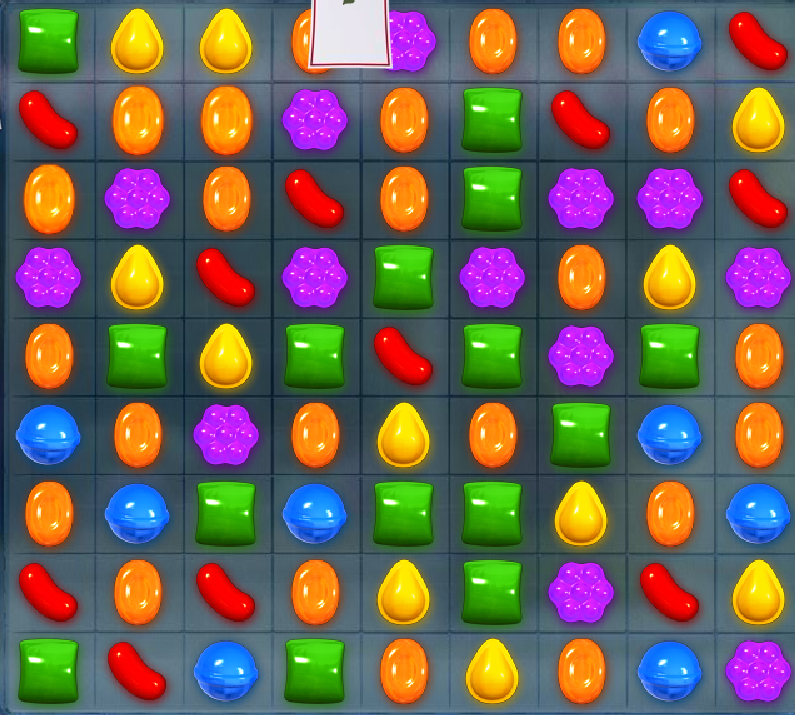
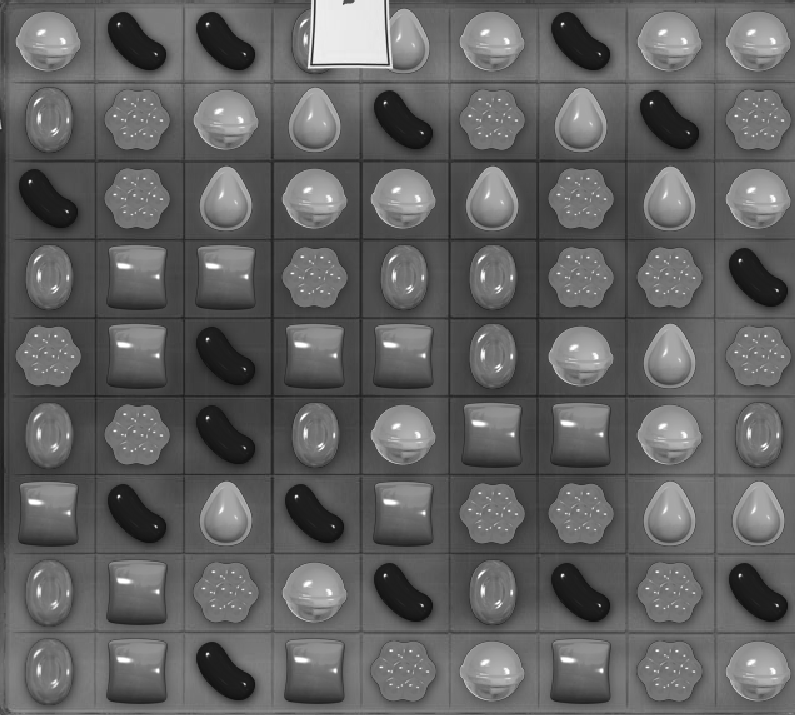
intento de arreglar sensores

diff --git a/Sensores.py b/Sensores.py
@@ -4,7 +4,6 @@ import numpy as np
 import time
 from PIL import Image
 
-
 # Función para capturar una imagen del juego
 def capture_screenshot():
     screenshot = ImageGrab.grab()  # Captura una imagen de toda la pantalla
@@ -19,77 +18,53 @@ def process_screenshot(screenshot):
     # Esta parte dependerá de la estructura del juego y lo que deseas analizar.
 
     # Ejemplo: Recortar la imagen para obtener solo una región específica
-    game_region = screenshot[75:790, 125:920]  # Ajusta las coordenadas según tu juego verticaul-horizontal
+    game_region = screenshot[75:790, 125:920]  # Ajusta las coordenadas según tu juego vertical-horizontal
 
-    # Ejemplo: Aplicar un filtro de suavizado
-    #game_region = cv2.GaussianBlur(game_region, (15, 15), 0)
-
+    # Convierte la región del juego a escala de grises
+    game_region = cv2.cvtColor(game_region, cv2.COLOR_BGR2GRAY)
 
     return game_region
 
-def calculate_dominant_color(segment):
+# Función para identificar el tipo de dulce en un segmento
+def identify_candy(segment, reference_images):
+    best_match = None
+    best_match_score = float('-inf')
 
-    color_to_candy = {
-        (52, 177, 1): 'Verde',
-        (255, 1, 0): 'Rojo',
-        (252, 220, 3): 'Amarillo',
-        (18, 138, 255): 'Azul',
-        (255, 138, 13): 'Naranja',
-        (187, 37, 255): 'Morado',
-    }
-    
-    candy_type = 'Desconocido'
+    for candy, reference_image in reference_images.items():
+        # Realizar la coincidencia de plantillas
+        result = cv2.matchTemplate(segment, reference_image, cv2.TM_CCOEFF_NORMED)
 
-    # Convertir el segmento a formato HSV (Hue, Saturation, Value)
-    hsv_segment = cv2.cvtColor(segment, cv2.COLOR_BGR2HSV)
+        # Ajustar el umbral aquí para controlar la coincidencia
+        threshold = 0.03 # Ajusta este valor según tus necesidades
+        loc = np.where(result >= threshold)
 
-    for color, candy in color_to_candy.items():
-        lower_bound = np.array([color[0] - 10, 100, 100])
-        upper_bound = np.array([color[0] + 10, 255, 255])
+        # Procesa todas las coincidencias y encuentra la mejor
+        for pt in zip(*loc[::-1]):
+            if result[pt[1], pt[0]] > best_match_score:
+                best_match_score = result[pt[1], pt[0]]
+                best_match = candy
 
-        # Crear una máscara para el color específico
-        mask = cv2.inRange(hsv_segment, lower_bound, upper_bound)
-
-        # Encuentra los contornos en la máscara
-        contours, _ = cv2.findContours(mask, cv2.RETR_EXTERNAL, cv2.CHAIN_APPROX_SIMPLE)
-
-        # Si se encuentra al menos un contorno, consideramos que el color está presente
-        if len(contours) > 0:
-            candy_type = candy
-            break
+    return best_match
 
 
-    return candy_type
-
-
-def process_game_board(game_board):
-
-    rows, cols, _ = game_board.shape
+# Función para procesar el tablero del juego
+def process_game_board(game_board, reference_images):
+    rows, cols = game_board.shape
     segment_size = (cols // 9, rows // 9)  # Tamaño de cada segmento
-    game_matrix = np.zeros((9, 9), dtype=int)
+    game_matrix = np.empty((9, 9), dtype=str)
 
     for i in range(9):
         for j in range(9):
             # Obtener el segmento actual
-
             segment = game_board[i * segment_size[1]:(i + 1) * segment_size[1], 
                                 j * segment_size[0]:(j + 1) * segment_size[0]]
 
-
-
-            # Calcular el color predominante en el segmento
-            color_mode = calculate_dominant_color(segment)
-
-            print(color_mode)
-            # Asignar un valor único a cada tipo de dulce basado en el color predominante
-            # Esto es un ejemplo; debes ajustarlo según tus colores y tipos de dulces
-            # if color_mode == 0:
-            #     game_matrix[i][j] = 1  # Tipo de dulce 1
-            # elif color_mode == 1:
-            #     game_matrix[i][j] = 2  # Tipo de dulce 2
-            # # Agrega más condiciones para otros colores y tipos de dulces
+            # Identificar el tipo de dulce en el segmento
+            candy_type = identify_candy(segment, reference_images)
+            game_matrix[i][j] = candy_type
 
     print(game_matrix) 
+
 # Función para guardar una imagen en un archivo
 def save_image(image, filename):
     image_pil = Image.fromarray(image)
@@ -98,17 +73,41 @@ def save_image(image, filename):
 # Ejemplo de uso
 if __name__ == "__main__":
     var = True
+    reference_images = {
+        # 'Verde': cv2.imread('D:/Trabajos UN/2023-2/Sistemas inteligentes/Agente-Candy/Images/verde.png', cv2.IMREAD_GRAYSCALE),
+        # 'Rojo': cv2.imread('D:/Trabajos UN/2023-2/Sistemas inteligentes/Agente-Candy/Images/rojo.png', cv2.IMREAD_GRAYSCALE),
+        # 'Naranja': cv2.imread('D:/Trabajos UN/2023-2/Sistemas inteligentes/Agente-Candy/Images/naranja.png', cv2.IMREAD_GRAYSCALE),
+        # 'Amarillo': cv2.imread('D:/Trabajos UN/2023-2/Sistemas inteligentes/Agente-Candy/Images/amarillo.png', cv2.IMREAD_GRAYSCALE),
+        # 'Azul': cv2.imread('D:/Trabajos UN/2023-2/Sistemas inteligentes/Agente-Candy/Images/azul.png', cv2.IMREAD_GRAYSCALE),
+        # 'Morado': cv2.imread('D:/Trabajos UN/2023-2/Sistemas inteligentes/Agente-Candy/Images/morado.png', cv2.IMREAD_GRAYSCALE),
+
+        # 'Verde2': cv2.imread('D:/Trabajos UN/2023-2/Sistemas inteligentes/Agente-Candy/Images/verde3.png', cv2.IMREAD_GRAYSCALE),
+        # 'Rojo2': cv2.imread('D:/Trabajos UN/2023-2/Sistemas inteligentes/Agente-Candy/Images/rojo3.png', cv2.IMREAD_GRAYSCALE),
+        # 'Naranja2': cv2.imread('D:/Trabajos UN/2023-2/Sistemas inteligentes/Agente-Candy/Images/naranja3.png', cv2.IMREAD_GRAYSCALE),
+        # 'Yellow2': cv2.imread('D:/Trabajos UN/2023-2/Sistemas inteligentes/Agente-Candy/Images/amarillo3.png', cv2.IMREAD_GRAYSCALE),
+        # 'Azul2': cv2.imread('D:/Trabajos UN/2023-2/Sistemas inteligentes/Agente-Candy/Images/azul3.png', cv2.IMREAD_GRAYSCALE),
+        # 'Morado2': cv2.imread('D:/Trabajos UN/2023-2/Sistemas inteligentes/Agente-Candy/Images/morado3.png', cv2.IMREAD_GRAYSCALE),
+    
+
+        'Verde': cv2.imread('D:/Trabajos UN/2023-2/Sistemas inteligentes/Agente-Candy/Images/verde2.png', cv2.IMREAD_GRAYSCALE),
+        'Rojo': cv2.imread('D:/Trabajos UN/2023-2/Sistemas inteligentes/Agente-Candy/Images/rojo2.png', cv2.IMREAD_GRAYSCALE),
+        'Naranja': cv2.imread('D:/Trabajos UN/2023-2/Sistemas inteligentes/Agente-Candy/Images/naranja2.png', cv2.IMREAD_GRAYSCALE),
+        'Yellow': cv2.imread('D:/Trabajos UN/2023-2/Sistemas inteligentes/Agente-Candy/Images/amarillo2.png', cv2.IMREAD_GRAYSCALE),
+        'Azul': cv2.imread('D:/Trabajos UN/2023-2/Sistemas inteligentes/Agente-Candy/Images/azul2.png', cv2.IMREAD_GRAYSCALE),
+        'Morado': cv2.imread('D:/Trabajos UN/2023-2/Sistemas inteligentes/Agente-Candy/Images/morado2.png', cv2.IMREAD_GRAYSCALE)
+    }
+
     while var:
-        #time.sleep(5)
+        time.sleep(5)
         screenshot = capture_screenshot()
         processed_image = process_screenshot(screenshot)
-        process_game_board = process_game_board(processed_image)
+        process_game_board(processed_image, reference_images)
         # Guardar la imagen procesada en un archivo (ajusta el nombre de archivo según sea necesario)
         save_image(processed_image, "captura_procesada.png")
 
         # Aquí puedes realizar más análisis o procesamiento de la imagen según tus necesidades.
 
         # Pausa antes de tomar otra captura (ajusta según sea necesario)
-        time.sleep(5)
+        #time.sleep(5)
 
-        var = False; 
+        var = False
